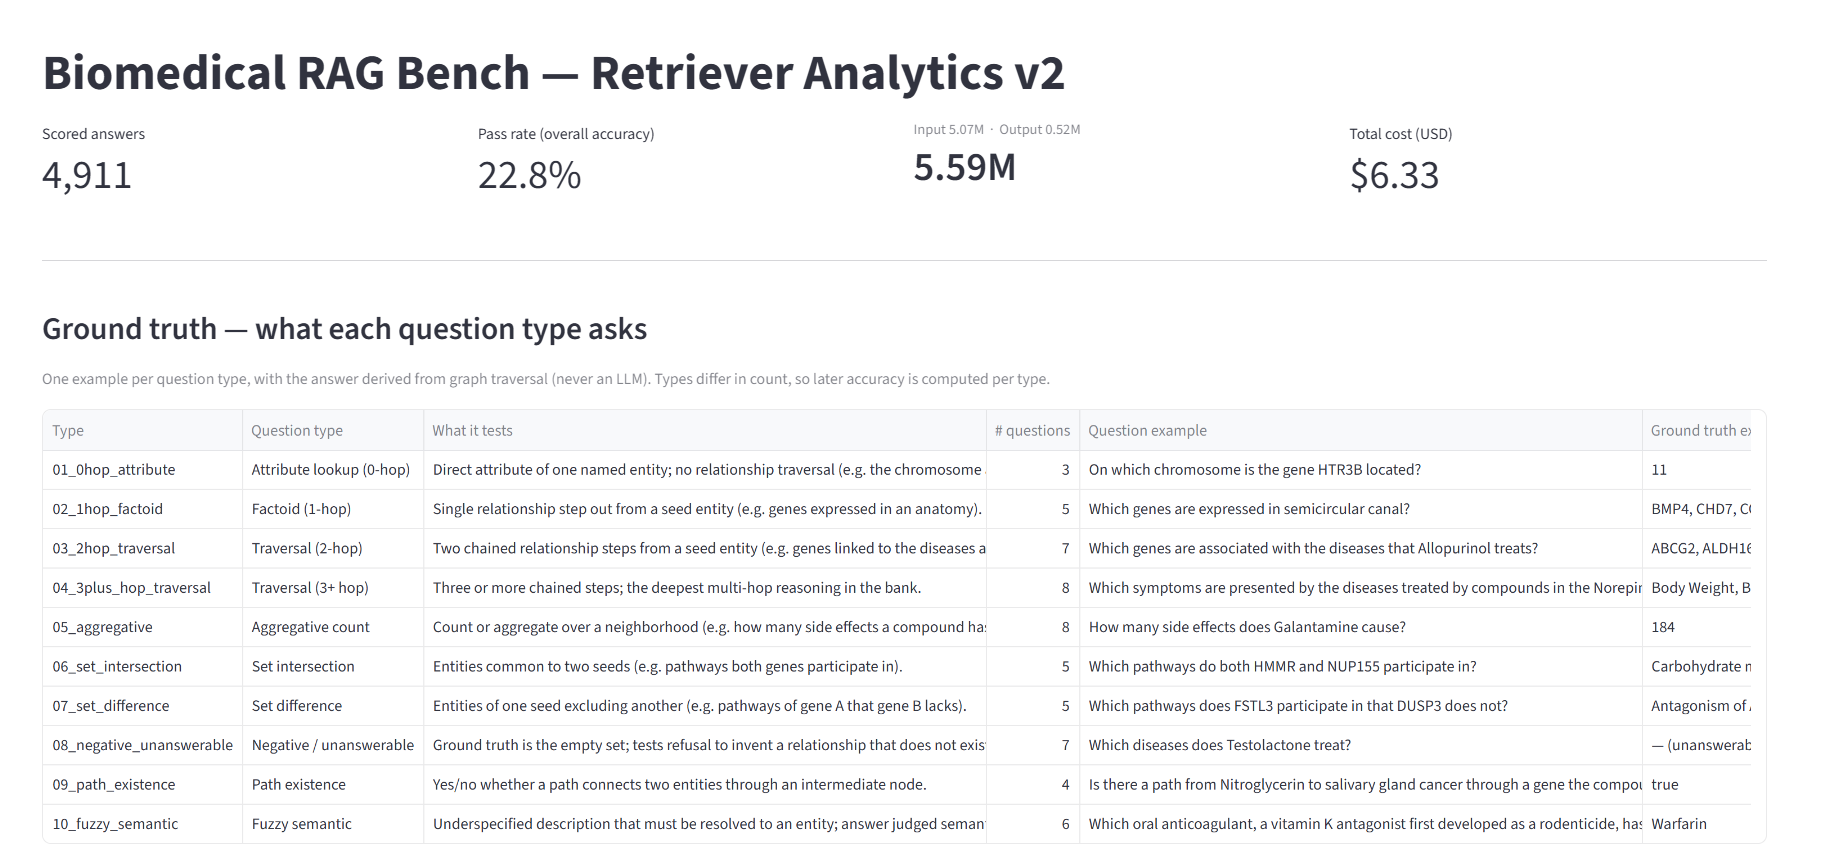
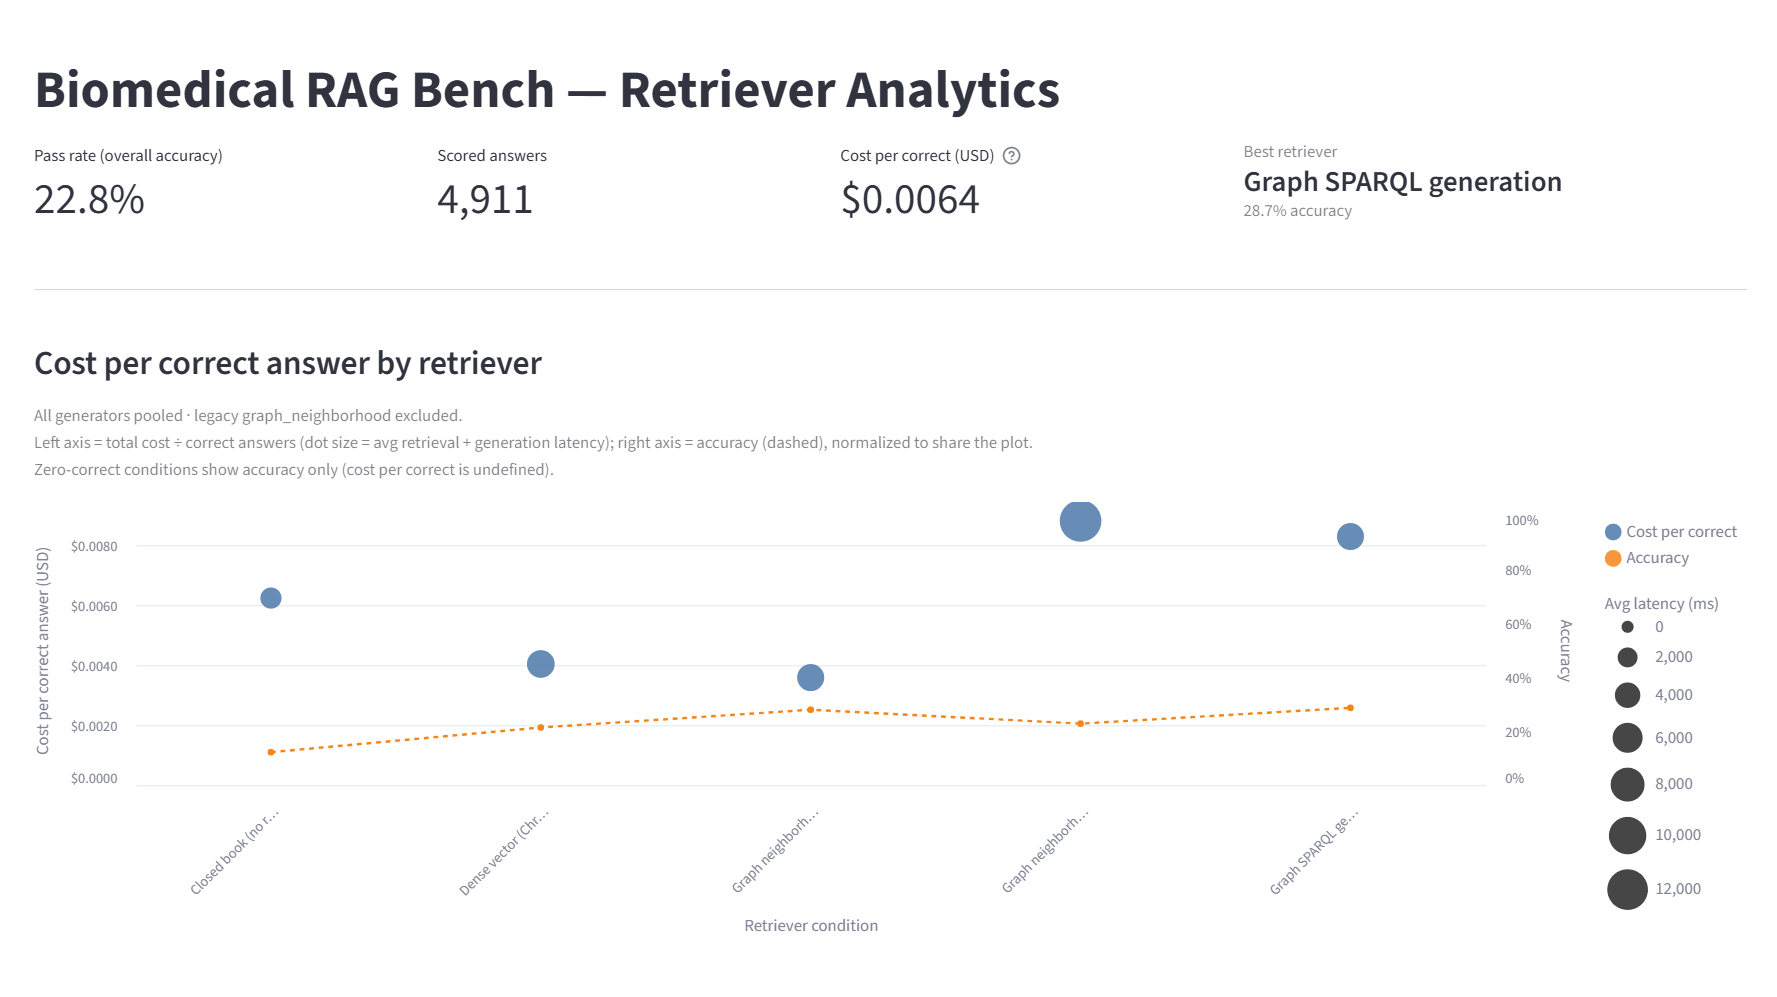
Scatter plot to dashboard

diff --git a/dashboard/app_v2.py b/dashboard/app_v2.py
@@ -189,45 +189,143 @@ def accuracy_heatmap(
 # section against the spec in next-prompts.md.env.
 # ──────────────────────────────────────────────────────────────────────────────
 def render_headline(df: pd.DataFrame) -> None:
-    """Top-of-page KPI strip: scored answers, overall accuracy, total tokens, total cost.
+    """Top-of-page KPI strip: pass rate, scored answers, cost per correct, best retriever.
 
-    All four are whole-dataset rollups (no filtering) so the page opens on the totals before
-    any slice. The token card is custom HTML (not st.metric) because the spec wants the input
-    and output subtotals shown small *above* the larger total — two values over one, which a
-    single metric can't render. Tokens reconcile by construction (total = input + output);
-    cost sums the pre-coalesced fact measure (unpriced models contribute 0, never fabricated).
+    Whole-dataset rollups (no filtering) so the page opens on the totals. Cost per correct =
+    Σ total_cost_usd / Σ passed — a ratio of two additive fact measures computed here at read
+    time (a ratio is non-additive, so it's never stored on the fact); guarded to '—' when nothing
+    passed (dividing by zero correct is undefined, not zero cost). Best retriever is the
+    highest-accuracy condition with legacy graph_neighborhood excluded — it's hidden from the
+    retriever comparison everywhere else (incl. the scatter below), so it must not win here. The
+    other three cards are still whole-dataset totals (they're totals, not a comparison).
     """
     scored = len(df)
     pass_rate = df["passed"].mean() if scored else 0.0
-    total_in = int(
-        df["generator_input_tokens"].fillna(0).sum()
-        + df["writer_input_tokens"].fillna(0).sum()
-    )
-    total_out = int(
-        df["generator_output_tokens"].fillna(0).sum()
-        + df["writer_output_tokens"].fillna(0).sum()
-    )
-    total_tokens = total_in + total_out
+    num_correct = int(df["passed"].sum())
     total_cost = df["total_cost_usd"].fillna(0).sum()
+    cost_per_correct = f"${total_cost / num_correct:,.4f}" if num_correct else "—"
 
-    def _mtok(v: int) -> str:  # tokens in millions, e.g. 4_620_000 -> "4.62M"
-        return f"{v / 1e6:,.2f}M"
+    ranked = df[~df["retriever"].isin(LEGACY_RETRIEVERS)]
+    if len(ranked):
+        ret_acc = ranked.groupby("display_label")["passed"].agg(correct="sum", n="size")
+        ret_acc["accuracy"] = ret_acc["correct"] / ret_acc["n"]
+        best_label = ret_acc["accuracy"].idxmax()
+        best_acc = f"{ret_acc['accuracy'].max():.1%} accuracy"
+    else:
+        best_label, best_acc = "—", ""
 
-    c1, c2, c3, c4 = st.columns(4)
-    c1.metric("Scored answers", f"{scored:,}")
-    c2.metric("Pass rate (overall accuracy)", f"{pass_rate:.1%}")
-    c3.markdown(
+    # 4th column gets extra width; its value is a long retriever label, not a number.
+    c1, c2, c3, c4 = st.columns([1, 1, 1, 1.3])
+    c1.metric("Pass rate (overall accuracy)", f"{pass_rate:.1%}")
+    c2.metric("Scored answers", f"{scored:,}")
+    c3.metric(
+        "Cost per correct (USD)",
+        cost_per_correct,
+        help="Total cost ÷ correct answers. A correct answer costs more than an attempt because "
+        "wrong answers still cost money (cost/correct = cost/attempt ÷ accuracy).",
+    )
+    # Custom card (not st.metric): the value is a long retriever label that st.metric clips to one
+    # nowrap line — this mirrors the metric look but lets the name wrap and show in full.
+    c4.markdown(
         f"""
-        <div style="line-height:1.35">
-          <div style="font-size:0.8rem; opacity:0.6">
-            Input {_mtok(total_in)} &nbsp;·&nbsp; Output {_mtok(total_out)}
-          </div>
-          <div style="font-size:2.25rem; font-weight:600">{_mtok(total_tokens)}</div>
+        <div style="line-height:1.3">
+          <div style="font-size:0.875rem; opacity:0.6">Best retriever</div>
+          <div style="font-size:1.5rem; font-weight:600">{best_label}</div>
+          <div style="font-size:0.875rem; opacity:0.6">{best_acc}</div>
         </div>
         """,
         unsafe_allow_html=True,
     )
-    c4.metric("Total cost (USD)", f"${total_cost:,.2f}")
+
+
+def render_cost_per_correct_scatter(df: pd.DataFrame) -> None:
+    """Combo — cost per correct (left axis) and accuracy (right axis) by retriever, sized by latency.
+
+    Legacy graph_neighborhood is excluded (superseded by the _1hop/_2hop conditions); all generators
+    pooled. The two series share the plot area on *independent* y-axes — the honest reading of
+    "normalize accuracy onto the cost axis": accuracy keeps its own right-hand %% scale instead of
+    being silently rescaled into dollars (a single shared dollar axis would make accuracy unreadable).
+    Cost dots: y = Σ total_cost_usd / Σ passed, size = avg retrieval + avg generation latency (each
+    phase averaged over its non-null answers then summed; errors emit no latency and are skipped).
+    Accuracy: a dashed dot plot (passed/total). A zero-correct condition shows its accuracy dot but
+    no cost dot — cost/correct is undefined, not zero.
+    """
+    keep = df[~df["retriever"].isin(LEGACY_RETRIEVERS)]
+    by_ret = (
+        keep.groupby(["display_label", "sort_order"], as_index=False)
+        .agg(
+            total_cost=("total_cost_usd", "sum"),
+            correct=("passed", "sum"),
+            total=("passed", "size"),
+            avg_retrieval_ms=("retrieval_latency_ms", "mean"),
+            avg_generation_ms=("generation_latency_ms", "mean"),
+        )
+        .sort_values("sort_order")  # data order = x order, so the dashed line tracks left→right
+    )
+    by_ret["accuracy"] = by_ret["correct"] / by_ret["total"]
+    # .where(correct>0) makes the denominator NaN (not 0) when nothing passed, so the division
+    # yields NaN — no divide-by-zero warning, and the cost dot drops out via dropna below.
+    by_ret["cost_per_correct"] = by_ret["total_cost"] / by_ret["correct"].where(by_ret["correct"] > 0)
+    # closed-book has no retrieval phase (avg is NaN) -> treat as 0 so its dot still sizes on gen.
+    by_ret["avg_latency_ms"] = by_ret["avg_retrieval_ms"].fillna(0) + by_ret["avg_generation_ms"].fillna(0)
+
+    st.subheader("Cost per correct answer by retriever")
+    st.caption(
+        "All generators pooled · legacy graph_neighborhood excluded.  \n"
+        "Left axis = total cost ÷ correct answers (dot size = avg retrieval + generation latency); "
+        "right axis = accuracy (dashed), normalized to share the plot.  \n"
+        "Zero-correct conditions show accuracy only (cost per correct is undefined)."
+    )
+
+    _, ret_order = _retriever_axis(by_ret)
+    x_enc = alt.X(
+        "display_label:N", title="Retriever condition", sort=ret_order,
+        axis=alt.Axis(labelAngle=-45),
+    )
+    # One shared color scale across both layers → a single 2-entry legend (blue cost / orange accuracy).
+    series_color = alt.Color(
+        "series:N", title=None,
+        scale=alt.Scale(domain=["Cost per correct", "Accuracy"], range=["#4c78a8", "#f58518"]),
+    )
+
+    cost = (
+        alt.Chart(by_ret.dropna(subset=["cost_per_correct"]).assign(series="Cost per correct"))
+        .mark_circle(opacity=0.85)
+        .encode(
+            x=x_enc,
+            y=alt.Y("cost_per_correct:Q", title="Cost per correct answer (USD)",
+                    axis=alt.Axis(format="$,.4f")),
+            size=alt.Size("avg_latency_ms:Q", title="Avg latency (ms)",
+                          scale=alt.Scale(range=[100, 1200])),
+            color=series_color,
+            tooltip=[
+                alt.Tooltip("display_label:N", title="Retriever"),
+                alt.Tooltip("cost_per_correct:Q", title="Cost / correct", format="$,.4f"),
+                alt.Tooltip("total_cost:Q", title="Total cost", format="$,.4f"),
+                alt.Tooltip("correct:Q", title="Correct"),
+                alt.Tooltip("total:Q", title="Answers"),
+                alt.Tooltip("avg_latency_ms:Q", title="Avg latency (ms)", format=",.0f"),
+            ],
+        )
+    )
+    accuracy = (
+        alt.Chart(by_ret.assign(series="Accuracy"))
+        .mark_line(strokeDash=[4, 4], point=True)
+        .encode(
+            x=x_enc,
+            y=alt.Y("accuracy:Q", title="Accuracy", scale=alt.Scale(domain=[0, 1]),
+                    axis=alt.Axis(format=".0%")),
+            color=series_color,
+            tooltip=[
+                alt.Tooltip("display_label:N", title="Retriever"),
+                alt.Tooltip("accuracy:Q", title="Accuracy", format=".0%"),
+                alt.Tooltip("correct:Q", title="Correct"),
+                alt.Tooltip("total:Q", title="Answers"),
+            ],
+        )
+    )
+    chart = alt.layer(cost, accuracy).resolve_scale(y="independent").properties(height=380)
+    st.altair_chart(chart, use_container_width=True)
 
 
 def render_ground_truth(dim_q: pd.DataFrame) -> None:
@@ -337,7 +435,7 @@ def render_accuracy_matrix2(df: pd.DataFrame) -> None:
 
 
 def render_latency_split(df: pd.DataFrame) -> None:
-    """DRAFT — retrieval vs generation latency per retriever condition (generator=haiku).
+    """Retrieval vs generation latency per retriever condition (generator=haiku).
 
     Stacked bars split each condition's avg wall-clock into its two phases: retrieval (the
     retriever fetching context) and generation (the LLM answering). Generator is held fixed
@@ -350,11 +448,11 @@ def render_latency_split(df: pd.DataFrame) -> None:
         (df["generator_model_family"] == HAIKU_FAMILY)
         & (~df["retriever"].isin(LEGACY_RETRIEVERS))
     ]
-    st.subheader("🚧 DRAFT · Latency — retrieval vs generation by retriever condition")
+    st.subheader("Latency — retrieval vs generation by retriever condition")
     st.caption(
         f"Generator fixed to **{HAIKU_FAMILY}**, legacy retriever excluded · stacked bar = "
         "avg retrieval + avg generation latency (ms) per condition.  \n"
-        "_Draft for review — phases averaged over answers that emitted latency (errors skipped)._"
+        "_Phases averaged over answers that emitted latency (errors skipped)._"
     )
 
     by_cond = keep.groupby(["display_label", "sort_order"], as_index=False).agg(
@@ -444,8 +542,8 @@ def render_pricing_reference(dim_pricing: pd.DataFrame) -> None:
 
 
 def main() -> None:
-    st.set_page_config(page_title="Biomedical RAG Bench — Analytics v2", layout="wide")
-    st.title("Biomedical RAG Bench — Retriever Analytics v2")
+    st.set_page_config(page_title="Biomedical RAG Bench — Analytics", layout="wide")
+    st.title("Biomedical RAG Bench — Retriever Analytics")
 
     dim_q = load_mart("dim_question")
     dim_pricing = load_mart("dim_token_pricing")
@@ -453,13 +551,15 @@ def main() -> None:
 
     render_headline(df)
     st.divider()
-    render_ground_truth(dim_q)
+    render_cost_per_correct_scatter(df)
     st.divider()
     render_accuracy_matrix1(df)
     st.divider()
     render_accuracy_matrix2(df)
     st.divider()
     render_latency_split(df)
+    st.divider()
+    render_ground_truth(dim_q)
     st.divider()
     render_pricing_reference(dim_pricing)
 

diff --git a/README.md b/README.md
@@ -60,9 +60,8 @@ flowchart LR
   runs it without Airflow.
 
 ## Dashboard Screenshot
+![alt text](rag-bench-analytics-dashboard-screenshot-draftv2-01.png)
 
-![alt text](rag-bench-analytics-dashboard-screenshot-draftv2-01.png)  
- 
  ![alt text](rag-bench-analytics-dashboard-screenshot-draftv2-03.png)
  
  ![alt text](rag-bench-analytics-dashboard-screenshot-draftv2-02.png)